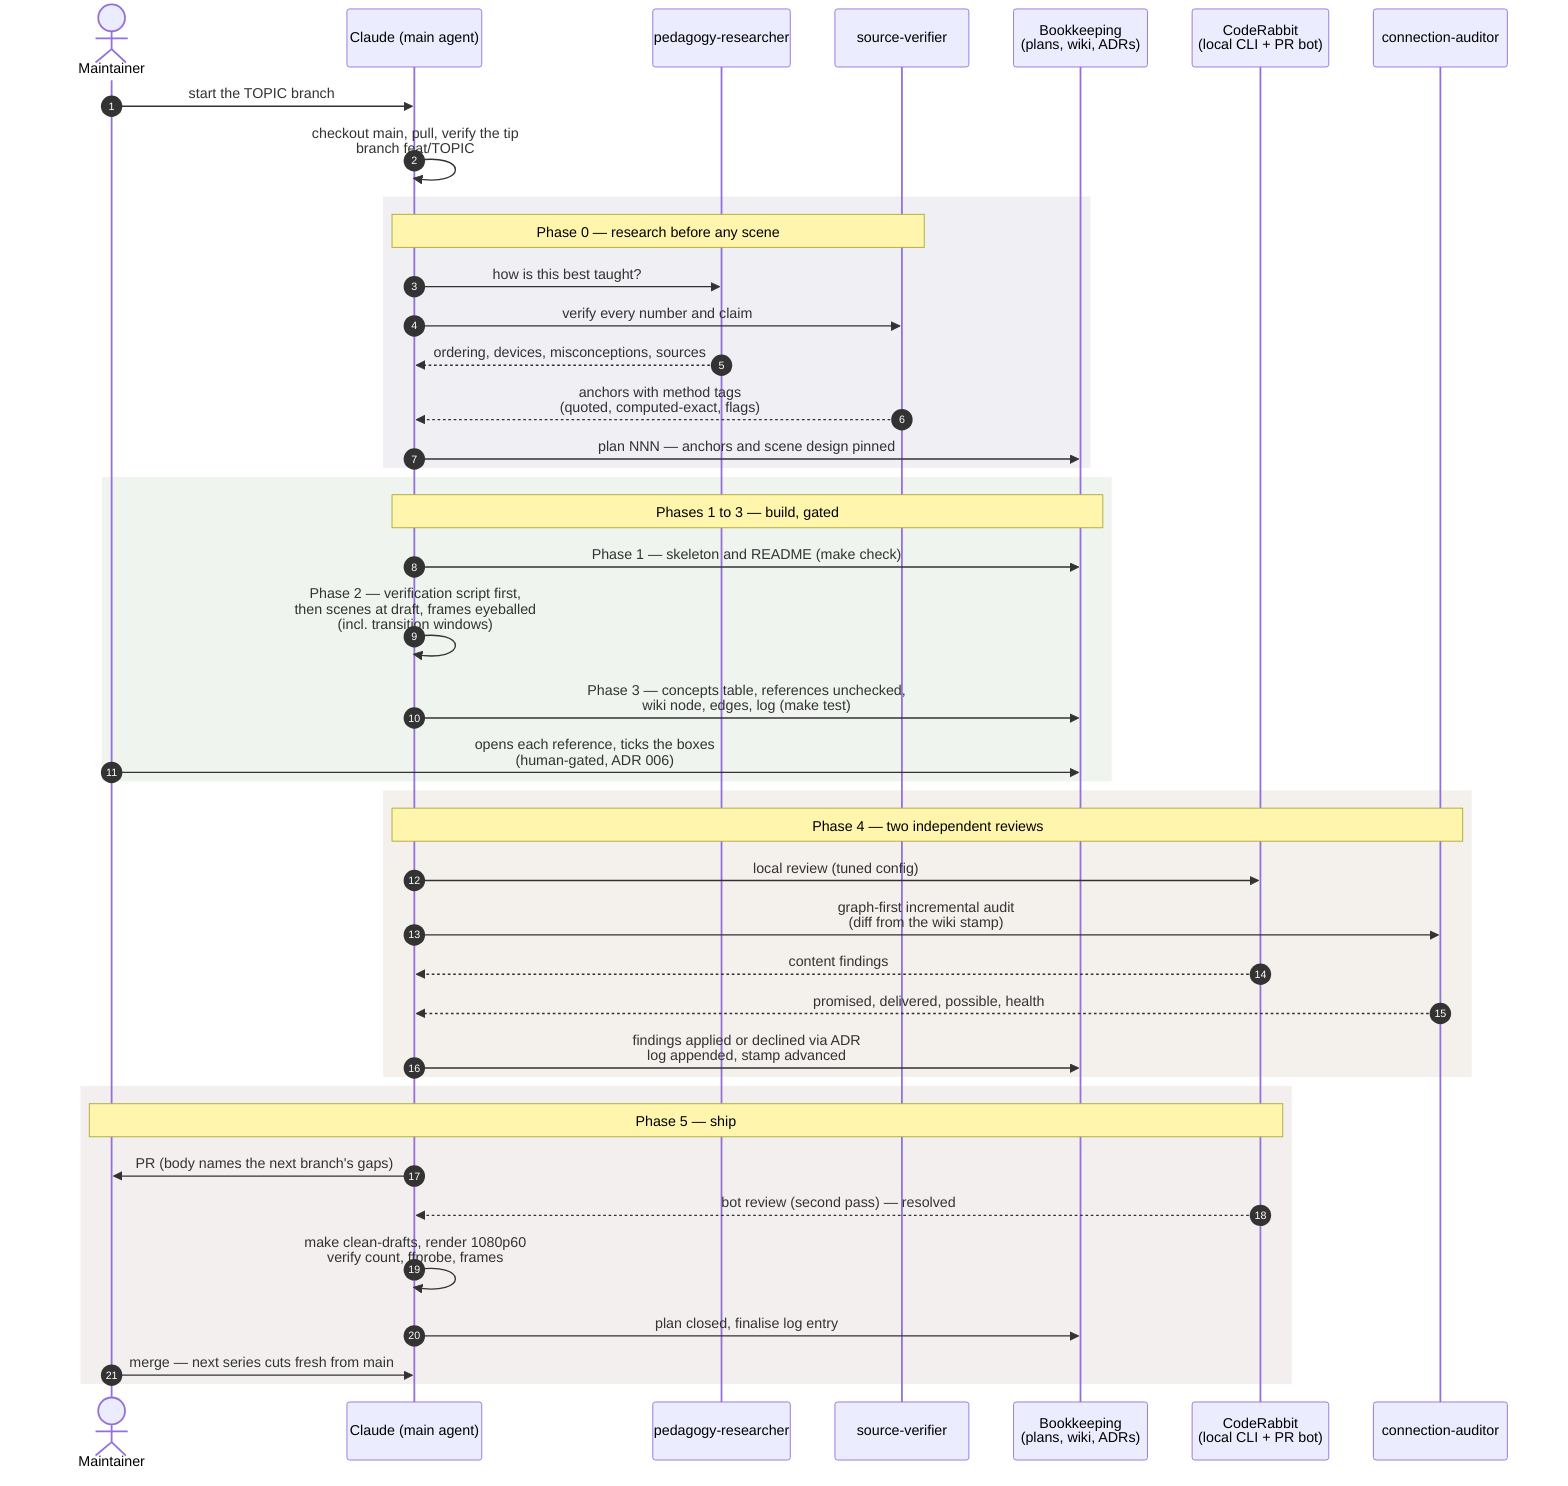
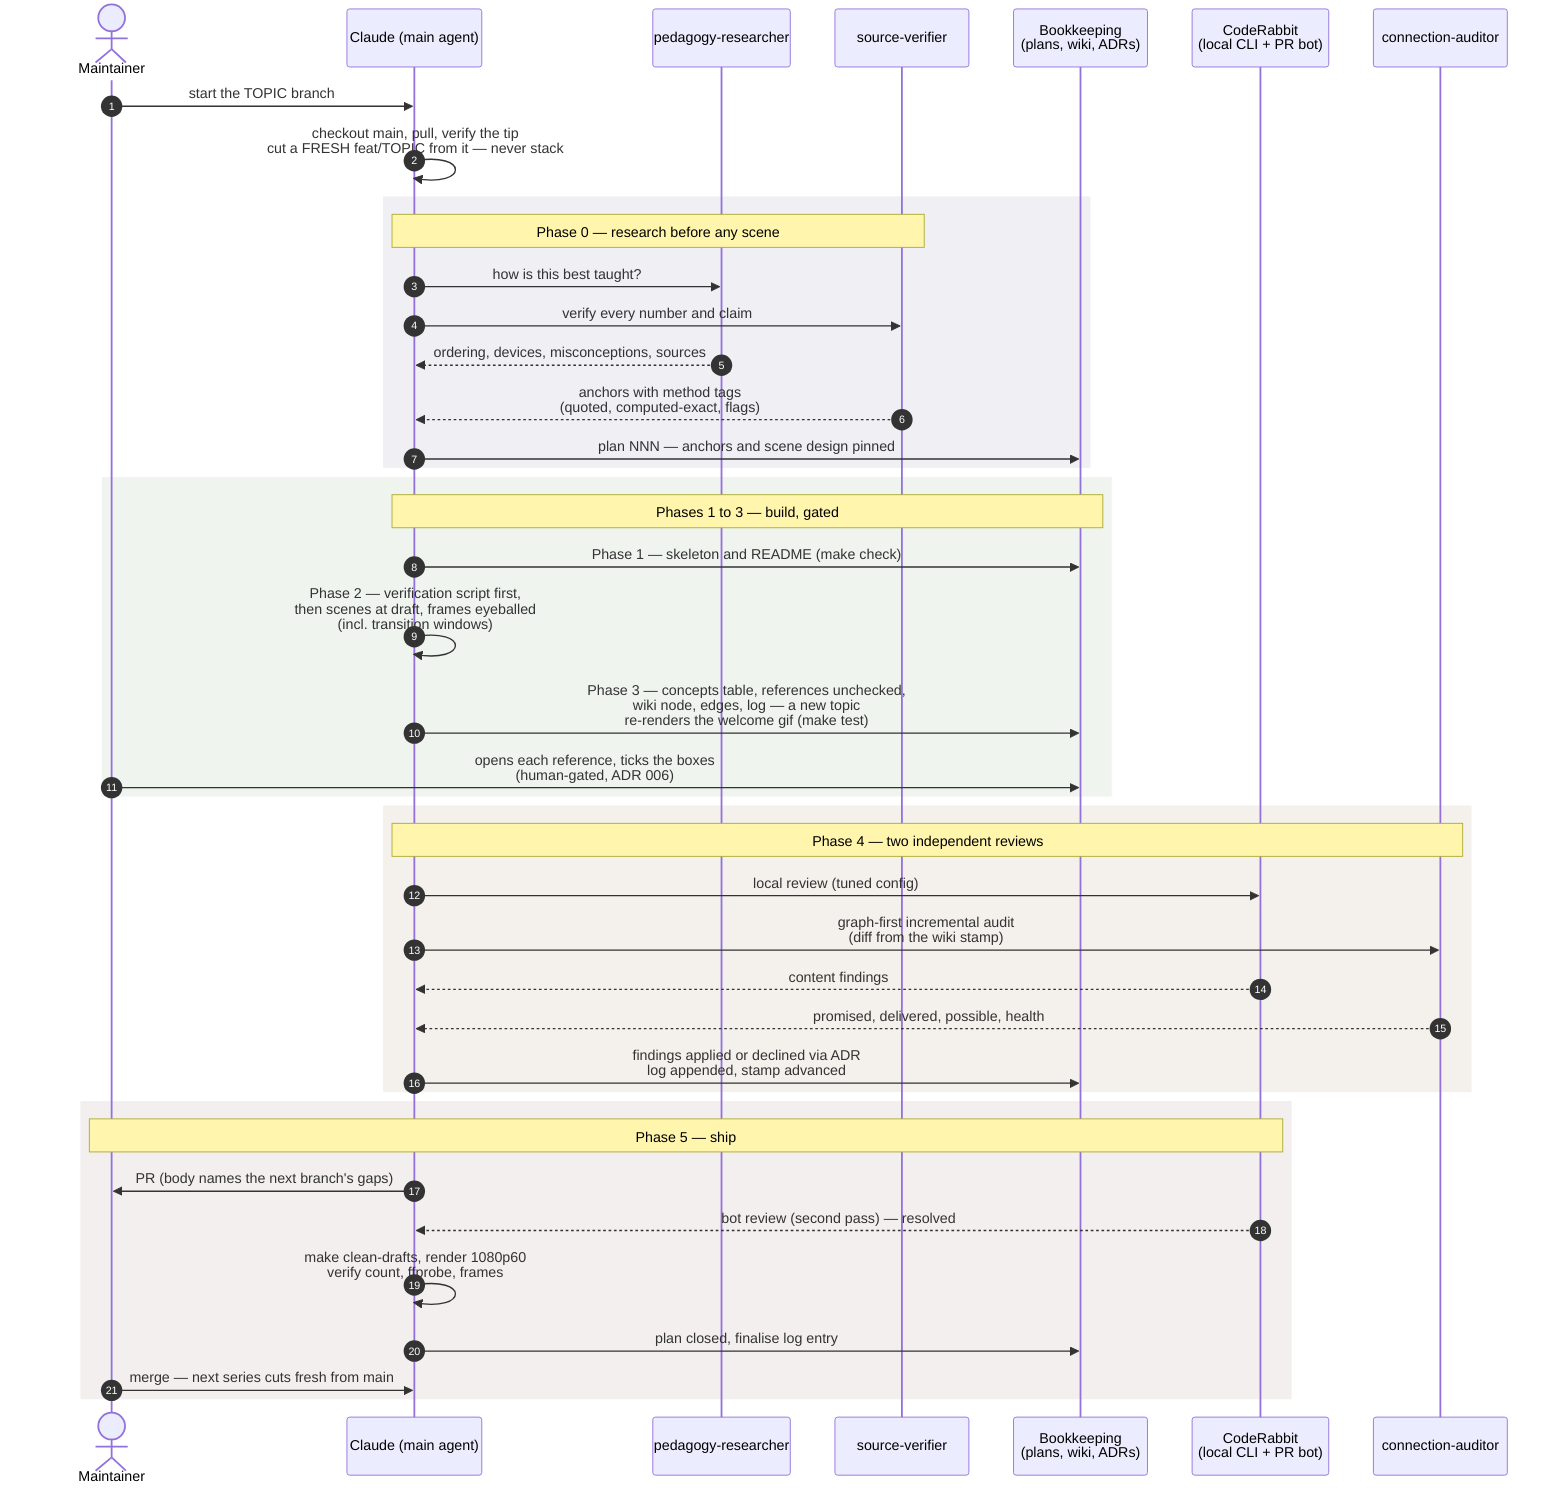
fix: apply the PR bot's nine findings across scene, docs, and furniture
The real scene bug: arc4/tag4 were missing from TheEvidenceRuler's
teardown group — an earlier replace silently no-op'd against
ruff-reformatted text (asserts on every replace from now on) — so the
final tail arc lingered through the takeaway; fixed and re-rendered at
draft and 1080p60. Doc-to-scene truthing: the strip's rendered endpoint
(256, with the anchors' ladder noted to 1024) and the cliff's rendered
0.1-beat (the 0.5-variant stays in the anchors) now match everywhere.
The welcome scene's three levels take semantic colours (an ordered
progression, not unranked categories: COOL claim, ACCENT argument,
GOOD tool) with explicit manim imports, retiring its per-file ruff
ignore — wildcards are once again exclusive to */*_manim.py. The
workflow diagram states the fresh-branch cut explicitly and carries
the welcome-gif phase-3 step (a semicolon broke the parser again;
em dash). Zero-prior claim qualified to evidence of nonzero
probability. docs/assets/README.md documents the gif regeneration and
the front page links it. Welcome gif re-rendered (373 KB).

diff --git a/docs/assets/welcome_scene.py b/docs/assets/welcome_scene.py
@@ -7,20 +7,21 @@ language.
 
 Render (from the repo root):
     uv run python docs/assets/welcome_scene.py -q draft
-    ffmpeg palette pass — see docs/assets/README note in the root README.
+    then the ffmpeg palette pass in docs/assets/README.md.
 """
 
-from manim import *
+from manim import DOWN, RIGHT, UP, Arrow, Create, FadeIn, GrowArrow, LaggedStart, Text, VGroup
 
 from utils import (
     ACCENT,
     BODY_SIZE,
+    COOL,
+    GOOD,
     LABEL_SIZE,
     MUTED,
     ConceptScene,
     boxed,
     chip,
-    palette,
     render_cli,
 )
 
@@ -36,11 +37,14 @@ class Welcome(ConceptScene):
         ).next_to(self.head, DOWN, buff=0.35)
         self.play(FadeIn(motto), run_time=0.7)
 
+        # The three levels are an ordered progression, not unranked
+        # categories, so they carry semantic colours: the claim (primary
+        # quantity), the argument building the result, the confirmed tool.
         levels = (
             VGroup(
-                chip("what is it saying?", palette(0), width=3.3),
-                chip("why is it true?", palette(1), width=3.0),
-                chip("when is it useful?", palette(2), width=3.3),
+                chip("what is it saying?", COOL, width=3.3),
+                chip("why is it true?", ACCENT, width=3.0),
+                chip("when is it useful?", GOOD, width=3.3),
             )
             .arrange(RIGHT, buff=0.9)
             .move_to(0.7 * UP)

diff --git a/algebra/logarithms_manim.py b/algebra/logarithms_manim.py
@@ -11,7 +11,7 @@ evidence ruler for Bayes and the underflow cliff for CTC.
     MultiplyIsAdd        hops add; the slide rule; the base is a unit
     ShrinkCounts         probabilities are shrink counts; log 0 is -inf
     TheEvidenceRuler     each head adds exactly +2 — evidence as length
-    TheUnderflowCliff    the value row dies at 2^-1075; the counter walks on
+    TheUnderflowCliff    0.1^324 is exactly zero; the counter walks on
 
 Every number on screen is exact and machine-verified in plan 005; every
 integer log is written from its exponent, never computed by a float log
@@ -450,6 +450,8 @@ class TheEvidenceRuler(ConceptScene):
             tag2,
             arc3,
             tag3,
+            arc4,
+            tag4,
             same,
             cancel,
             deciban,

diff --git a/algebra/README.md b/algebra/README.md
@@ -32,12 +32,12 @@ case; the last two are the payoffs the repo promised.
 
 | # | Scene | Formula | What it says | Why it's true | When it's useful |
 | --- | --- | --- | --- | --- | --- |
-| 1 | `TheCountingStrip` | $\log_b x = y \iff b^y = x$ | A logarithm answers "b to the what is x?" — it reads the counter row over the value row. | The strip *is* the definition: counter 0,1,2,… over values 1,2,4,…,1024; the base is the stride of one step. Conditions come free: b = 1 never moves, and positive bases never leave the positives (x > 0). | Every "how many doublings/tenfoldings?" question — halving times, digit counts, orders of magnitude. |
+| 1 | `TheCountingStrip` | $\log_b x = y \iff b^y = x$ | A logarithm answers "b to the what is x?" — it reads the counter row over the value row. | The strip *is* the definition: counter 0,1,2,… over values 1,2,4,…,256; the base is the stride of one step. Conditions come free: b = 1 never moves, and positive bases never leave the positives (x > 0). | Every "how many doublings/tenfoldings?" question — halving times, digit counts, orders of magnitude. |
 | 2 | `OneFactThreeNotations` | $2^6 = 64,\ \log_2 64 = 6,\ \sqrt[6]{64} = 2$ | Power, log, and root are one fact about the triple (2, 6, 64) asked three ways. | The triangle of power: cover a corner, get an operation; $b^{\log_b x} = x$ is the same number in two corners — *undo*, never "cancel". The log(a+b) trap is refuted in base 10 (log₁₀(10+10) ≈ 1.301 ≠ 2) because the base-2 instance is coincidentally true. | Reading any log identity without memorizing it; not falling for the two most-documented log errors. |
 | 3 | `MultiplyIsAdd` | $\log_b(xy) = \log_b x + \log_b y$ | Multiplying values is adding counters. | 8 × 16 is hop 3 then hop 4 = hop 7 = 128 on the strip; the slide rule (Gunter 1620, Oughtred ~1622) made the law physical. Change of base is a stride change — log₄64 = 6/2 = 3 — so the base is a *unit*: ten doublings ≈ three digits is why log₁₀2 ≈ 0.301. | Any time the world multiplies and you would rather add — which is the rest of this module. |
 | 4 | `ShrinkCounts` | $-\log_2 \tfrac{1}{16} = 4$ | Probabilities in (0, 1) have negative logs because they are counts of *shrinkings*. | The repo's own `ChainsOfTrials` cell: (1/2)⁴ is four halvings of the unit square. pH is the everyday negative-log; log 0 = −∞ is the zero prior, infinitely far away. And slow is not bounded: name any N, 2^N sits on the strip. | Reading log-probabilities, pH, and every "small number, big negative log" quantity without flinching. |
 | 5 | `TheEvidenceRuler` | $\log_3(\text{odds}) \mathrel{+}= 2 \text{ per head}$ | On a log ruler, evidence adds: each head contributes the same length. | `YesterdaysPosterior`'s ladder re-plotted in base 3: LR 9 = 3², so heads step 0 → 2 → 4 (odds 1, 9, 81) and two tails walk the marker back to exactly 0 — the multiplicative waterfall and the additive ruler are the same data. | The log-odds form of Bayes — evidence as weight (Turing's decibans); the promise `probability/`'s Ideas queue carried. |
-| 6 | `TheUnderflowCliff` | $\ln(a{+}b) = \ln a + \ln(1 + e^{\ln b - \ln a}),\ a \ge b$ | Products of small probabilities die in floating point; sums of logs walk on forever — and log-sum-exp restores the one thing log space loses. | 0.5^1074 survives as float64's last subnormal, 0.5^1075 is exactly 0.0, 0.1^324 likewise — while the log₁₀ sum is exactly −324. The trellis *adds* α's, so it needs Graves' log-add identity — stated with its a ≥ b convention, under which the max factors out and the shifted term lives in (0, 1]. | CTC's forward recursion in every real implementation (the 2012 book's move; the 2006 paper rescaled) — the promise `deep_learning/`'s Ideas queue carried. |
+| 6 | `TheUnderflowCliff` | $\ln(a{+}b) = \ln a + \ln(1 + e^{\ln b - \ln a}),\ a \ge b$ | Products of small probabilities die in floating point; sums of logs walk on forever — and log-sum-exp restores the one thing log space loses. | 0.1³²³ survives as a subnormal, 0.1³²⁴ is exactly 0.0 — float64's floor is 2⁻¹⁰⁷⁴ — while the log₁₀ sum is exactly −324. The trellis *adds* α's, so it needs Graves' log-add identity — stated with its a ≥ b convention, under which the max factors out and the shifted term lives in (0, 1]. | CTC's forward recursion in every real implementation (the 2012 book's move; the 2006 paper rescaled) — the promise `deep_learning/`'s Ideas queue carried. |
 
 Renders: `01_TheCountingStrip.mp4` … `06_TheUnderflowCliff.mp4`.
 

diff --git a/probability/README.md b/probability/README.md
@@ -111,7 +111,7 @@ iteration; the last closes the repo's strongest deferred promise.
 | 2 | `CountingItOut` | $\tfrac{18}{18+24}=\tfrac{3}{7}$ | The first Bayes computation needs no formula — count whole people. | Diseasitis on the cohort chips: 100 students → 20 sick (18 positive), 80 healthy (24 positive); the answer is the share of positives who are sick. The prior travels inside the counts, which is why counts cure base-rate neglect. | The format that turns 4% correct into 24% (and gynecologists from 21% to 87%) — how to actually communicate a posterior. |
 | 3 | `TheOddsForm` | $\text{post odds}=\text{prior odds}\times LR$ | Only ratios matter: prior odds times the likelihood ratio is the whole law. | The waterfall — streams at prior widths 1:4, pass-through 3:1, pool at 3:4 → 3/7 — is the square-drawn-as-a-tree with renormalization deferred; the chips, the tree, and the two slices were one object all along. Scale streams or fractions and the pool ratio never moves. | The form in which updating is a single multiplication; keep 3:4 and 3/7 visibly distinct. |
 | 4 | `OneTestTwoPatients` | $1{:}9\times 9 = 1{:}1,\quad 1{:}99\times 9 = 1{:}11$ | One test has one number (LR = 9); the posterior belongs to the patient. | The prevalence pair completed as a factorization: the counted 9/18 and 9/108 fall out as 1/2 and 1/12 from the same LR against two priors. "90% accurate" is one word hiding two numbers, read as a posterior. | The medical-test paradox, the prosecutor's fallacy in update clothing — a posterior can never be stated without its prior. |
-| 5 | `YesterdaysPosterior` | $1{:}1\xrightarrow{\times 9}9{:}1\xrightarrow{\times 9}81{:}1$ | Yesterday's posterior is today's prior; likelihood ratios multiply. | On the repo's own two coins (LR 9 per head): H → 9:1, HH → 81:1, and H-then-T lands back at exactly 1:1 — impossible if evidence replaced belief, automatic if it reweights. Multiplying is licensed only by conditional independence given the hypothesis — `WhenToCondition`'s lesson, said on screen. | Sequential evidence done right: chained tests, accumulating observations; a zero prior stays zero under any evidence — geometrically, it sits infinitely far down `algebra/`'s evidence ruler. |
+| 5 | `YesterdaysPosterior` | $1{:}1\xrightarrow{\times 9}9{:}1\xrightarrow{\times 9}81{:}1$ | Yesterday's posterior is today's prior; likelihood ratios multiply. | On the repo's own two coins (LR 9 per head): H → 9:1, HH → 81:1, and H-then-T lands back at exactly 1:1 — impossible if evidence replaced belief, automatic if it reweights. Multiplying is licensed only by conditional independence given the hypothesis — `WhenToCondition`'s lesson, said on screen. | Sequential evidence done right: chained tests, accumulating observations; a zero prior stays zero under any evidence of nonzero probability (a finite likelihood ratio cannot rescue it) — geometrically, it sits infinitely far down `algebra/`'s evidence ruler. |
 | 6 | `TheHostsProtocol` | $\text{post}\propto\text{prior}\times P(\text{action}\mid\text{hyp})$ | Monty Hall is ordinary Bayes once the likelihood is the host's behavior, not the revealed fact. | A proportionality table over the door chips (uniform prior over car positions, one row per protocol): standard (1/2, 1, 0) → switch 2/3; Monty Fall (1/2, 1/2, 0) → 1/2; Monty Crawl forced-high → switch wins certainly. Same door opened, three answers — the announcement-protocol lesson at series scale. | Rosenthal's proportionality principle as everyday Bayes: diagnosis, spam, forensics — and the closing rule of the whole topic: condition on what happened *the way it happened*, then multiply. |
 
 Renders: `01_ThroughTheFrontDoor.mp4` … `06_TheHostsProtocol.mp4`.

diff --git a/docs/plans/005-algebra-logarithms.md b/docs/plans/005-algebra-logarithms.md
@@ -114,7 +114,8 @@ never Diseasitis (irrational logs). All on-screen integer logs come
 from exponents, never float log calls.
 
 1. `TheCountingStrip` — exponents as counted multiplications: the
-   two-row strip (0,1,2,… over 1,2,4,…,1024). Invert the question,
+   two-row strip (0,1,2,… over 1,2,4,…,256 as rendered; the anchors'
+   ladder runs to 1024). Invert the question,
    not the function: "2 to the what is 64?" — a logarithm reads the
    counter row. Definition boxed with its full conditions (b > 0,
    b ≠ 1 because 1's ladder never moves, x > 0).
@@ -146,7 +147,8 @@ from exponents, never float log calls.
    length." Deciban lore as a caption (Turing; ~1 deciban is the
    smallest evidence humans perceive).
 6. `TheUnderflowCliff` — consumer #2. The value row falls off
-   float64's floor (0.5^1074 survives, 0.5^1075 == 0; 0.1^324 == 0)
+   float64's floor — rendered as the 0.1³²³/0.1³²⁴ beat with the
+   2⁻¹⁰⁷⁴ floor caption (the 0.5-power variant stays in the anchors) —
    while the counter row walks on (log₁₀ sum exactly −324); Graves
    quoted ("soon lead to underflows"); log-sum-exp as the one move
    the trellis's *additions* need — log₂(2⁻¹⁰ + 2⁻¹⁰) = −9 exactly,

diff --git a/docs/assets/README.md b/docs/assets/README.md
@@ -1,0 +1,16 @@
+# docs/assets
+
+`welcome.gif` is the one committed render — the front page's animation,
+produced by the repo itself. To regenerate after editing
+`welcome_scene.py` (or when a new topic joins its hand-listed row):
+
+```bash
+uv run python docs/assets/welcome_scene.py -q draft
+ffmpeg -y -i media/videos/welcome_scene/480p15/01_Welcome.mp4 \
+  -vf "fps=12,scale=720:-1:flags=lanczos,split[s0][s1];\
+[s0]palettegen=max_colors=96[p];[s1][p]paletteuse=dither=bayer" \
+  docs/assets/welcome.gif
+```
+
+Keep it under the 512 KB large-file hook; the palette pass above lands
+around 340 KB.

diff --git a/README.md b/README.md
@@ -9,7 +9,8 @@ of topics built so far](docs/assets/welcome.gif)
 
 *Rendered by the repo itself —
 [`docs/assets/welcome_scene.py`](docs/assets/welcome_scene.py), through
-the same shared layer every concept scene uses.*
+the same shared layer every concept scene uses; regeneration commands in
+[`docs/assets/README.md`](docs/assets/README.md).*
 
 The bias of this repo is that a formula should be the *last* thing on screen,
 not the first. Every scene shows the object being reasoned about, does the
